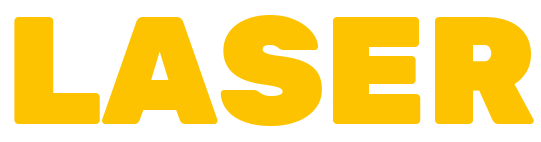
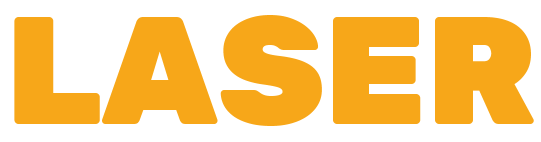
Cambiando colores.

diff --git a/escenas/loader/loader.go b/escenas/loader/loader.go
@@ -81,23 +81,3 @@ embedded_components {
     w: 1.0
   }
 }
-embedded_components {
-  id: "sprite"
-  type: "sprite"
-  data: "tile_set: \"/escenas/loader/fondo.atlas\"\n"
-  "default_animation: \"fondo inicio\"\n"
-  "material: \"/builtins/materials/sprite.material\"\n"
-  "blend_mode: BLEND_MODE_ALPHA\n"
-  ""
-  position {
-    x: 0.0
-    y: 0.0
-    z: 0.0
-  }
-  rotation {
-    x: 0.0
-    y: 0.0
-    z: 0.0
-    w: 1.0
-  }
-}
